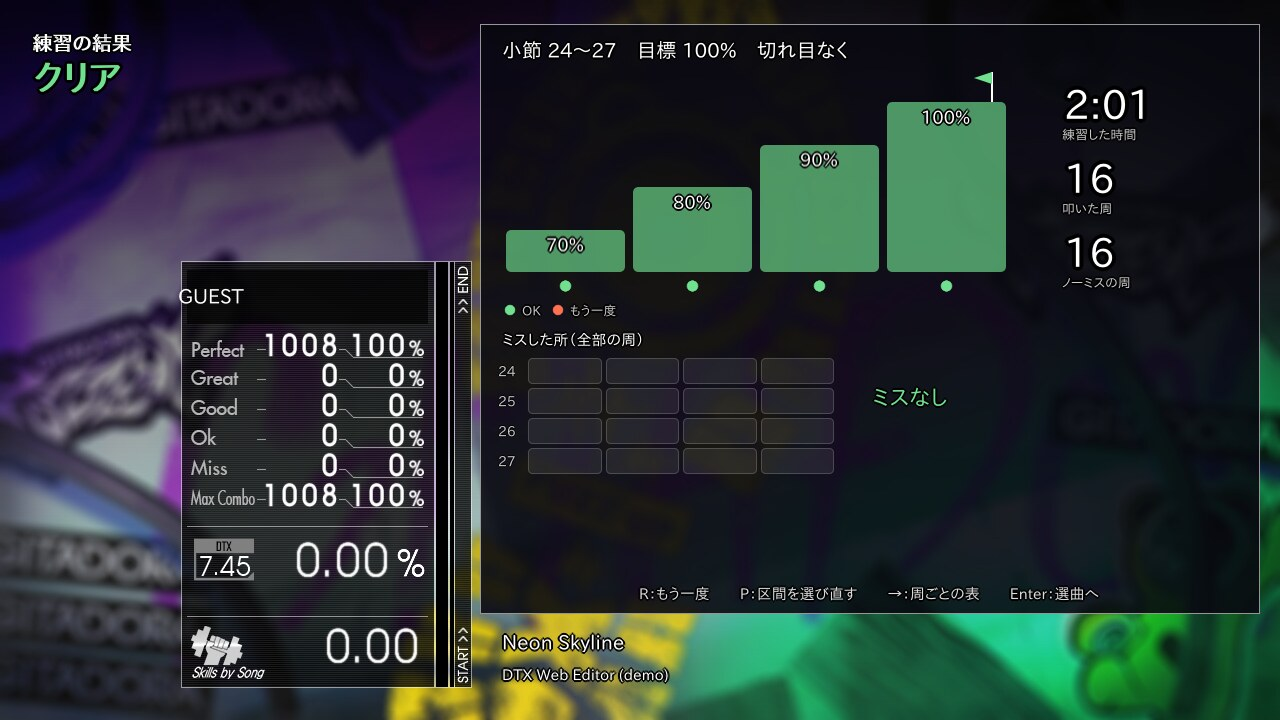
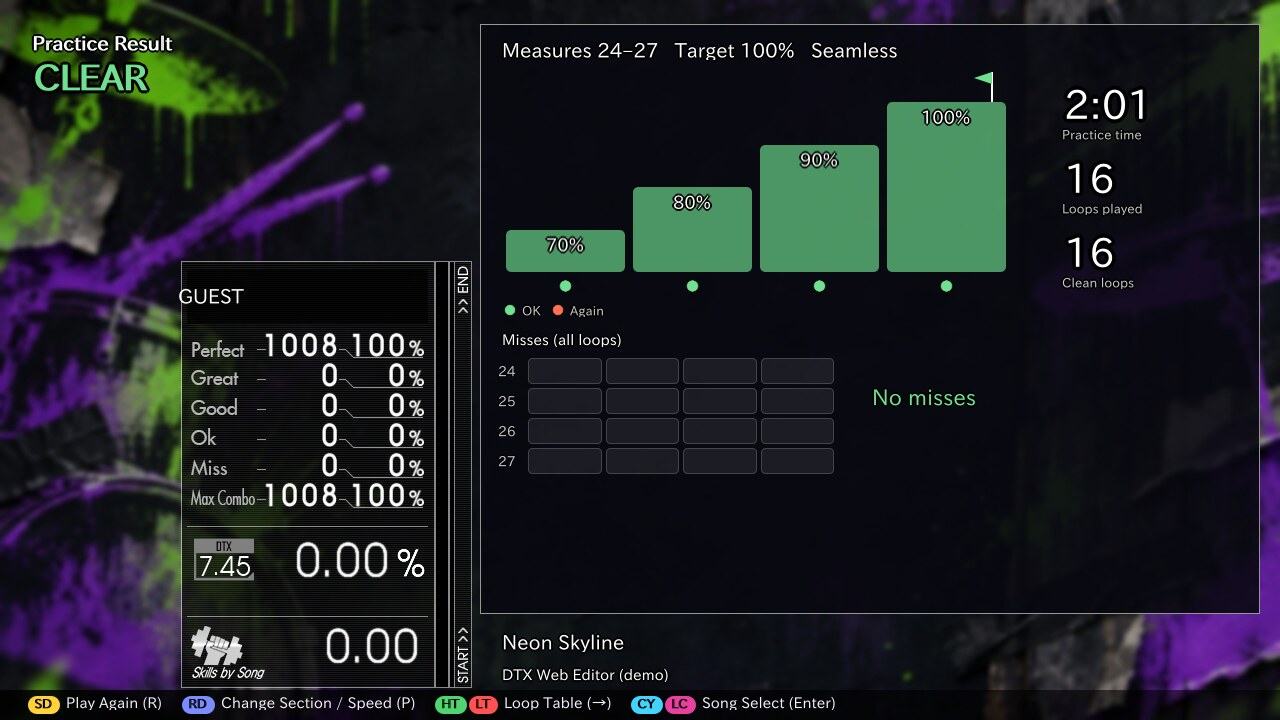
README の画面を新しいスキンで撮り直し、権利の節を今の段階に合わせる
- 段階 1（KONAMI の絵が入っていた 23 枚の置き換え）の後のスキンで、選曲・演奏・リザルト・練習の GIF と画像を撮り直した
- 英語の README には英語の画面、日本語の README には日本語の画面（*.ja.gif / *.ja.jpg）を載せる
- 権利の節: スキンの段階ごとの状態（1 置き換え済み、2 効果音・3 そのほかの画像は v2.0 のまま）、自前の素材は CC BY 4.0、0.8.0 までの版には元の絵が入っていることを書いた。商標の節から Tri-Boost を外した
- 系譜の図と hero の説明、リリースノートのひな形のスキンの行も今の状態に合わせた

Claude-Session: https://claude.ai/code/session_0141xt8Aa9GeA94DuKDR3itV

diff --git a/tools/readme/make_svgs.py b/tools/readme/make_svgs.py
@@ -169,13 +169,13 @@ def hero(lang: str) -> Svg:
     if en:
         s.add(text(54, 160, "Play DTX drum charts.", 25, INK, 700))
         s.add(text(54, 192, "Practice the parts you miss.", 25, INK, 700))
-        s.add(text(54, 226, "Written from scratch in Rust, with the DTXManiaNX v2.0 look.", 15, SUB))
+        s.add(text(54, 226, "Written from scratch in Rust, laid out like DTXManiaNX v2.0.", 15, SUB))
         s.add(text(54, 248, "Made for electronic drums. Windows first, macOS and Linux too.", 15, SUB))
         tags = [("E-drums (MIDI)", CYAN), ("Practice mode", GREEN), ("Timing tools", YELLOW), ("Free", MAGENTA)]
     else:
         s.add(text(54, 160, "DTX 譜面で遊んで、", 25, INK, 700))
         s.add(text(54, 192, "苦手なフレーズを集中練習。", 25, INK, 700))
-        s.add(text(54, 226, "見た目は DTXManiaNX v2.0、中身は Rust でゼロから作り直し。", 15, SUB))
+        s.add(text(54, 226, "画面の配置は DTXManiaNX v2.0、中身は Rust でゼロから作り直し。", 15, SUB))
         s.add(text(54, 248, "電子ドラム向け。Windows 版のほか、macOS・Linux 版もあります。", 15, SUB))
         tags = [("電子ドラム（MIDI）", CYAN), ("練習モード", GREEN), ("タイミング調整", YELLOW), ("無料", MAGENTA)]
     x = 52
@@ -748,9 +748,9 @@ def lineage(lang: str) -> Svg:
         960,
         300,
         "Where DTXmaniaNXT comes from" if en else "DTXmaniaNXT の系譜",
-        "DTXMania, DTXManiaXG verK, DTXManiaNX by limyz, DTXManiaNX v2.0 by BocuD, and DTXmaniaNXT. NXT is new code; only the v2.0 skin (images and sounds) is bundled unchanged."
+        "DTXMania, DTXManiaXG verK, DTXManiaNX by limyz, DTXManiaNX v2.0 by BocuD, and DTXmaniaNXT. NXT is new code. It started from the v2.0 skin and is replacing it with its own artwork, step by step."
         if en
-        else "DTXMania、DTXManiaXG verK、limyz 版 DTXManiaNX、BocuD 版 DTXManiaNX v2.0、DTXmaniaNXT の順。NXT のソースコードは新規で、v2.0 のスキン（画像と効果音）だけを無改変で同梱。",
+        else "DTXMania、DTXManiaXG verK、limyz 版 DTXManiaNX、BocuD 版 DTXManiaNX v2.0、DTXmaniaNXT の順。NXT のソースコードは新規。スキンは v2.0 のものから始めて、段階的に自前の素材へ置き換え中。",
     )
     card_bg(s)
     nodes = [
@@ -780,13 +780,13 @@ def lineage(lang: str) -> Svg:
     notes = (
         [
             ("— code", "Each project was forked from the one before it.", "#8FA3BF", False),
-            ("- - skin only", "NXT bundles the v2.0 images and sounds unchanged (tag V2.0.0-20260121-5).", MAGENTA, True),
+            ("- - skin only", "NXT started from the v2.0 skin and is replacing it with its own artwork, step by step.", MAGENTA, True),
             ("", "NXT's code is written from scratch in Rust. No upstream code is copied.", CYAN, False),
         ]
         if en
         else [
             ("— コード", "各プロジェクトは、左隣のプロジェクトからのフォークです。", "#8FA3BF", False),
-            ("- - スキンのみ", "NXT は v2.0 の画像と効果音を無改変で同梱しています（タグ V2.0.0-20260121-5）。", MAGENTA, True),
+            ("- - スキンのみ", "NXT のスキンは v2.0 のものから始め、段階的に自前の素材へ置き換えています。", MAGENTA, True),
             ("", "NXT のソースコードは Rust で新規に書いたもので、上流のコードは含みません。", CYAN, False),
         ]
     )

diff --git a/README.md b/README.md
@@ -1,5 +1,5 @@
 <p align="center">
-  <img src="docs/readme/hero.svg" width="960" alt="DTXmaniaNXT: play DTX drum charts and practice the parts you miss. Written from scratch in Rust, with the DTXManiaNX v2.0 look. Made for electronic drums. Windows first, macOS and Linux too.">
+  <img src="docs/readme/hero.svg" width="960" alt="DTXmaniaNXT: play DTX drum charts and practice the parts you miss. Written from scratch in Rust, laid out like DTXManiaNX v2.0. Made for electronic drums. Windows first, macOS and Linux too.">
 </p>
 
 <p align="center">
@@ -13,7 +13,7 @@
 <p align="center">
   A free drum game and practice app for <b>DTX charts</b>, the song format of DTXMania.<br>
   Windows (64-bit). macOS (Apple silicon) and Linux (x86_64) builds are on the <a href="https://github.com/check5004/DTXmaniaNXT/releases/latest">releases page</a>.<br>
-  <sub>The in-game text is Japanese for now. An unofficial fan project: see <a href="#credits-and-rights">Credits and rights</a>.</sub>
+  <sub>In English and Japanese. An unofficial fan project: see <a href="#credits-and-rights">Credits and rights</a>.</sub>
 </p>
 
 <p align="center">
@@ -49,8 +49,8 @@ Loop a few bars and climb 70 → 80 → 90 → 100 %. It shows the exact beat yo
 Every note you play is recorded. The result screen shows your weak bars, weak phrases and timing habits.
 </td>
 <td valign="top">
-<b>🖼 The DTXManiaNX v2.0 look</b><br>
-The screens and sounds of DTXManiaNX v2.0 are built in. You don't need DTXManiaNX installed.
+<b>🖼 Feels like DTXManiaNX v2.0</b><br>
+Screens laid out like DTXManiaNX v2.0, with new artwork. Everything is built in, so you don't need DTXManiaNX installed.
 </td>
 </tr>
 </table>
@@ -85,7 +85,7 @@ Playing on the keyboard: <kbd>A</kbd> <kbd>S</kbd> <kbd>Z</kbd> <kbd>D</kbd> <kb
 ## Play
 
 <p align="center">
-  <img src="docs/readme/shots/select.gif" width="720" alt="Song select: song bars scroll smoothly, each with a lamp for the cleared difficulty, and the difficulty panel on the right shows rank and achievement for each level.">
+  <img src="docs/readme/shots/select.gif" width="720" alt="Song select: the song list scrolls smoothly, each song with a lamp in the colour of the cleared difficulty, and the panel under the jacket shows the rank and achievement for each difficulty.">
 </p>
 
 Song select works like DTXManiaNX v2.0: browse your folders and BOXes, sort by title, artist, level or skill, and see your lamp, rank and best achievement for every difficulty.
@@ -94,7 +94,7 @@ If you played these songs in DTXManiaNX, the best results in its `score.ini` fil
 <table>
 <tr>
 <td width="50%" valign="top">
-<img src="docs/readme/shots/result.jpg" alt="Result screen: STAGE CLEARED, the judgement counts, achievement and skill, plus a timing panel with a histogram of early and late hits and a suggested offset.">
+<img src="docs/readme/shots/result.jpg" alt="Result screen: rank A and STAGE CLEARED, the judgement counts, achievement and skill, a timing panel with a histogram of early and late hits and a suggested offset, and a Weak Measures panel.">
 <br><sub>The result screen, with your timing and a suggested offset.</sub>
 </td>
 <td width="50%" valign="top">
@@ -187,9 +187,9 @@ No. DTXmaniaNXT is drums only.
 </details>
 
 <details>
-<summary><b>Is the game in English?</b></summary>
+<summary><b>Can I switch the game to Japanese?</b></summary>
 
-Not yet. Menus and messages are in Japanese for now. Some words drawn in the skin images are in English.
+Yes. The game starts in English. Change it under Config → General → Language (言語).
 </details>
 
 <details>
@@ -213,7 +213,7 @@ In `%APPDATA%\DTXmaniaNXT` on Windows (`config.toml` for settings, `records.sqli
 <details>
 <summary><b>How do I make my own charts?</b></summary>
 
-Use [DTX Web Editor](https://github.com/check5004/dtx-mania-web-editor), a free drum chart editor that runs in your browser (by the same author). It saves DTX song folders you can play here and in DTXMania.
+Use [DTX Web Editor](https://github.com/check5004/dtx-mania-web-editor), a free drum chart editor that runs in your browser (by the same author). You can open it from Config → Songs → Open Chart Editor. It saves DTX song folders you can play here and in DTXMania; choose Rescan Songs to see your edits in the list.
 </details>
 
 <details>
@@ -228,7 +228,7 @@ Please open an [issue](https://github.com/check5004/DTXmaniaNXT/issues). Attachi
 
 DTXmaniaNXT is an **unofficial fan project**. It would not exist without more than twenty years of work by the DTXMania community. Thank you to everyone who has made and kept DTXMania and its forks going.
 
-<p align="center"><img src="docs/readme/lineage.svg" width="960" alt="Where it comes from: DTXMania (FROM, DTXMania Group, since 2000), then DTXManiaXG verK (kairera0467), DTXManiaNX (limyz, fisyher), DTXManiaNX v2.0 (BocuD), and DTXmaniaNXT. NXT bundles the v2.0 images and sounds unchanged; its code is written from scratch."></p>
+<p align="center"><img src="docs/readme/lineage.svg" width="960" alt="Where it comes from: DTXMania (FROM, DTXMania Group, since 2000), then DTXManiaXG verK (kairera0467), DTXManiaNX (limyz, fisyher), DTXManiaNX v2.0 (BocuD), and DTXmaniaNXT. NXT's code is written from scratch. Its skin started from the v2.0 images and sounds and is being replaced with its own artwork, step by step."></p>
 
 ### The DTXMania family
 
@@ -238,7 +238,7 @@ DTXmaniaNXT is an **unofficial fan project**. It would not exist without more th
 | [DTXMania (OSDN)](https://osdn.net/projects/dtxmania) | yyagi | DTXMania as developed on OSDN, home of the [DTX data format wiki](https://osdn.net/projects/dtxmania/wiki/DTX%20data%20format). |
 | [DTXManiaXG verK](https://osdn.net/projects/dtxmaniaxg-verk) | kairera0467 | The fork that DTXManiaNX started from. |
 | [DTXManiaNX](https://github.com/limyz/DTXmaniaNX) | limyz / fisyher | This repository is a GitHub fork of it. |
-| [DTXManiaNX v2.0](https://github.com/BocuD/DTXmaniaNX) | BocuD | The screen layout and the bundled skin come from this version. |
+| [DTXManiaNX v2.0](https://github.com/BocuD/DTXmaniaNX) | BocuD | The screen layout comes from this version, and so does the part of the skin not yet replaced. |
 | [DTXMania AL](http://senamih.com/dtxal) | Sena | Another DTXMania fork, listed with the others in the DTXManiaNX README. |
 
 The names and the order above follow the DTXManiaNX READMEs and the projects' own pages. If something here is wrong, please tell us in an [issue](https://github.com/check5004/DTXmaniaNXT/issues).
@@ -246,13 +246,23 @@ The names and the order above follow the DTXManiaNX READMEs and the projects' ow
 ### What is in this repository
 
 - **The code** (the `main` branch) is new code written in Rust for this project. It contains no code from DTXMania or DTXManiaNX; their features are re-implemented to behave the same way. It is under the [MIT License](LICENSE).
-- **The skin** (`assets/skin`, the images and sounds you see and hear) is the `Runtime/System` folder of [BocuD/DTXmaniaNX](https://github.com/BocuD/DTXmaniaNX) at tag `V2.0.0-20260121-5`, copied unchanged (only the two background videos and Windows' `Thumbs.db` / `desktop.ini` are left out). It is built into the app so that it runs without DTXManiaNX. **It is not under the MIT License.** Its rights stay with its original creators across DTXMania and DTXManiaNX. The DTXManiaNX repositories have no license file; DTXMania's own license (`Runtime/Licenses/dtxmania.txt`, MIT-style) covers the DTXMania software. Details: [assets/README.md](assets/README.md).
+- **The skin** (`assets/skin`, the images and sounds you see and hear) started as the DTXManiaNX v2.0 skin and **is being replaced with original artwork, step by step**. It is built into the app so that it runs without DTXManiaNX. Details for every file: [assets/README.md](assets/README.md).
+
+  | Step | What | Now |
+  | --- | --- | --- |
+  | 1 | Images that contained KONAMI's GITADORA artwork or logos (backgrounds, title logo, shutter, STAGE FAILED, ranks and more) | **Replaced** with artwork made for DTXmaniaNXT (23 files). Unused ones were deleted. |
+  | 2 | Sound effects and voices | Still from DTXManiaNX v2.0 |
+  | 3 | All other images (judgement text, gauge, pads, sort icons and more) | Still from DTXManiaNX v2.0 |
+
+  - **Our artwork** (step 1) is under [CC BY 4.0](https://creativecommons.org/licenses/by/4.0/); please credit “DTXmaniaNXT”. It was made with an image-generation AI (OpenAI GPT Image 2.6 Sunburst, through OpenRouter), then cropped, resized and lettered. The prompts are in `tools/skin/prompts.json`; they don't name any existing game or product.
+  - **Everything else in the skin** is copied unchanged from the `Runtime/System` folder of [BocuD/DTXmaniaNX](https://github.com/BocuD/DTXmaniaNX) at tag `V2.0.0-20260121-5`. It is under neither the MIT License nor CC BY. Its rights stay with its original creators; there is no record of who made each image or sound. The DTXManiaNX repositories have no license file, and DTXMania's own license (`Runtime/Licenses/dtxmania.txt`, MIT-style) covers the DTXMania software, not these files.
+  - Releases up to 0.8.0 and older commits still contain the images from before step 1.
 - **The app icon** is DTXManiaNX's `dtx.ico` (an icon handed down from DTXMania) with its “DTX” lettering changed to “NXT”. It is not under the MIT License either.
 - **The `master` branch** keeps the upstream C# DTXManiaNX code for reference only. Our license doesn't apply to it.
 
 ### Trademarks
 
-The screen design follows KONAMI's GITADORA series, and some skin images include the names and logos “GITADORA”, “FUZZ-UP” and “Tri-Boost”. GITADORA is a trademark of Konami Digital Entertainment Co., Ltd. DTXmaniaNXT is not affiliated with or endorsed by KONAMI, or by the developers of DTXMania or DTXManiaNX.
+GITADORA is a trademark of Konami Digital Entertainment Co., Ltd. The screen layout follows KONAMI's GITADORA series. Up to version 0.8.0, the bundled skin contained artwork and logos taken straight from GITADORA FUZZ-UP; step 1 replaced all of them. Some of the parts still left from DTXManiaNX v2.0 are made to look like GITADORA's screens, and steps 2 and 3 will replace them. DTXmaniaNXT is not affiliated with or endorsed by KONAMI, or by the developers of DTXMania or DTXManiaNX.
 
 **If you hold rights to anything here and want it changed or removed, please open an [issue](https://github.com/check5004/DTXmaniaNXT/issues). We will act on it promptly.**
 
@@ -264,7 +274,7 @@ The screen design follows KONAMI's GITADORA series, and some skin images include
 
 ### About the pictures
 
-The screenshots and clips come from the current development build, so details may differ slightly from the release you download. All songs shown are demo songs made for these pictures, not real songs: “Neon Skyline” is the original demo song of DTX Web Editor, and the other titles are made-up names given to copies of it. The play records shown are made up as well.
+The screenshots and clips come from the current development build, so details may differ slightly from the release you download. They show the skin after step 1, with the English screens (the Japanese README shows the Japanese screens). All songs shown are demo songs made for these pictures, not real songs: “Neon Skyline” is the original demo song of DTX Web Editor, and the other titles are made-up names given to copies of it. The play records shown are made up as well.
 
 ## For developers
 
@@ -288,8 +298,10 @@ Set `DTXMANIANXT_AUTOPLAY=1` to have every note hit automatically while you chec
 | `crates/records` | Play records (SQLite) |
 | `crates/nx` | Reading DTXManiaNX folders (`Config.ini`, `score.ini`) |
 | `crates/video` | Chart videos (#AVI), via Media Foundation on Windows |
+| `crates/i18n` | English and Japanese text for the screens |
 | `crates/app` | The app: winit + wgpu + egui, cpal, midir. Draws the NX skin at the same coordinates as upstream |
-| `assets/skin` | The bundled DTXManiaNX v2.0 skin (see [Credits and rights](#credits-and-rights)) |
+| `assets/skin` | The bundled skin, being replaced with our own artwork (see [Credits and rights](#credits-and-rights)) |
+| `tools/skin` | Prompts and build scripts for the new skin artwork |
 | `testdata/charts` | Test charts with hand-checked expected results |
 
 - How judging works: hits are judged by MIDI arrival time and audio playback position, never by frame.
@@ -301,4 +313,4 @@ Pull requests go to `main` of this repository (check5004/DTXmaniaNXT), not to th
 
 ## License
 
-The code on the `main` branch is under the [MIT License](LICENSE). The bundled skin in `assets/skin`, the app icon in `assets/icon` and the upstream code on the `master` branch are not covered by it (see [Credits and rights](#credits-and-rights)).
+The code on the `main` branch is under the [MIT License](LICENSE). The skin in `assets/skin` (our artwork is CC BY 4.0, the rest is from DTXManiaNX v2.0), the app icon in `assets/icon` and the upstream code on the `master` branch are not covered by it (see [Credits and rights](#credits-and-rights)).

diff --git a/.github/release/notes.md b/.github/release/notes.md
@@ -1,8 +1,8 @@
 ## はじめに
 
-- DTXManiaNX のスキン（画面の画像と効果音）はアプリに入っています。DTXManiaNX が無くても、NX と同じ見た目で遊べます（スキンの出どころと扱いは [assets/README.md](https://github.com/check5004/DTXmaniaNXT/blob/main/assets/README.md)）。
+- 画面の画像と効果音（スキン）はアプリに入っているので、DTXManiaNX が無くても遊べます。スキンは DTXManiaNX v2.0 のものから始めて、自前の素材へ段階的に置き換えている途中です（出どころと扱いは [assets/README.md](https://github.com/check5004/DTXmaniaNXT/blob/main/assets/README.md)）。
 - 初めて起動したら、Config → システムの「曲」にある「フォルダを足す」で曲のフォルダを選んでください（ウィンドウにドロップしても足せます）。
-- 新しい版があると、タイトルのメニューの下に「新しい版」の行が出ます。選ぶと落として入れ替えます（設定の「アプリ」の「更新」で、知らせる・自動・確かめない を選べます）。
+- 新しい版があると、タイトルのメニューの下に「新しい版」の行が出ます。選ぶとダウンロードして更新します（設定の「アプリ」の「更新」で、知らせる・自動・確かめない を選べます）。
 - 設定と遊んだ記録は `%APPDATA%\DTXmaniaNXT` に残ります。更新しても、入れ直しても引き継がれます。exe 単体で使っていた人は、Setup.exe で一度入れ直してください（古い exe は消してかまいません）。
 - 署名をしていないので、Windows で「Windows によって PC が保護されました」と出たら「詳細情報」→「実行」を押してください。macOS では展開したフォルダで `xattr -d com.apple.quarantine dtxmanianxt` を実行してから起動します。
 - 使い方は [README](https://github.com/check5004/DTXmaniaNXT/blob/main/README.ja.md) と[詳しい使い方](https://github.com/check5004/DTXmaniaNXT/blob/main/docs/guide.ja.md)にあります（[English README](https://github.com/check5004/DTXmaniaNXT#readme)）。
